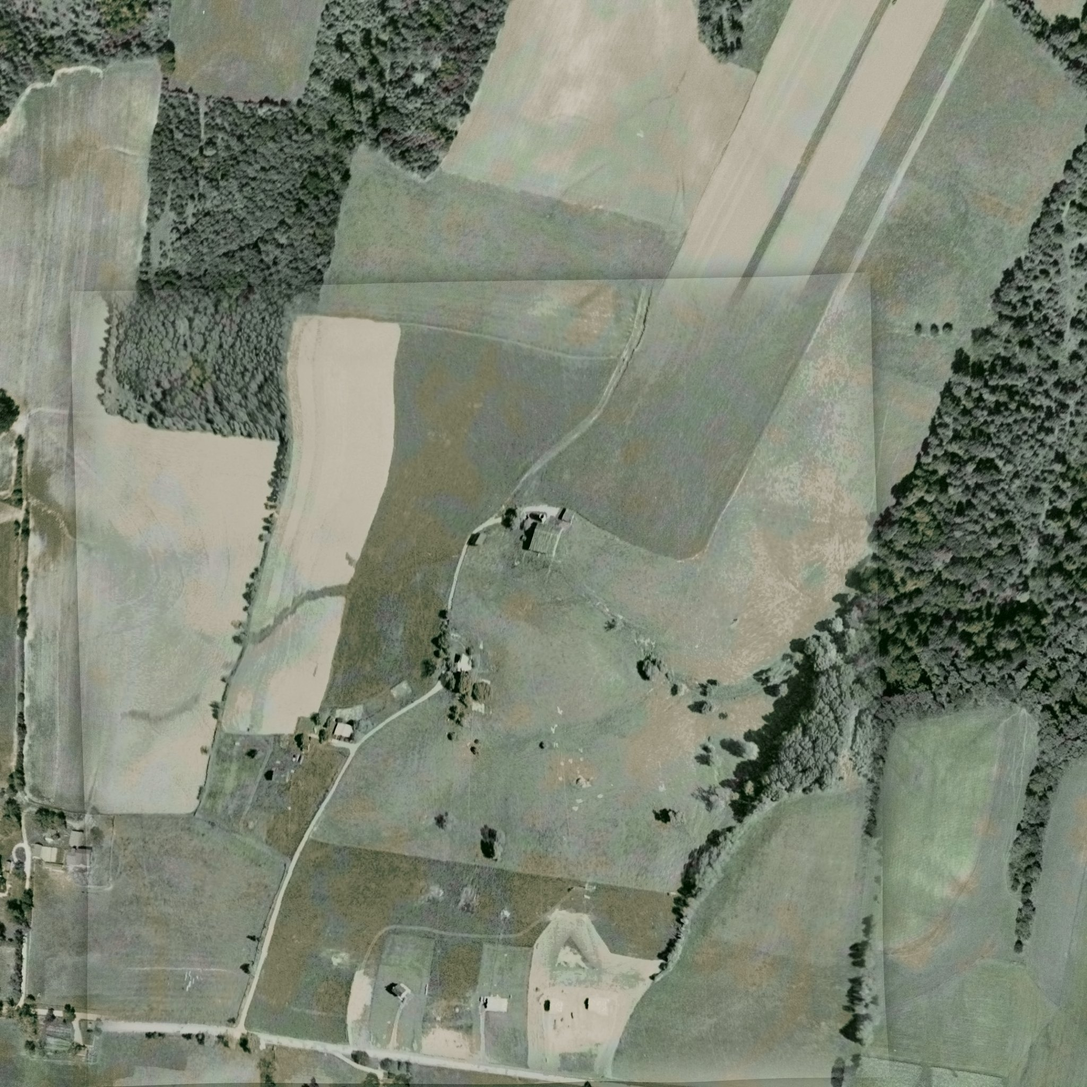
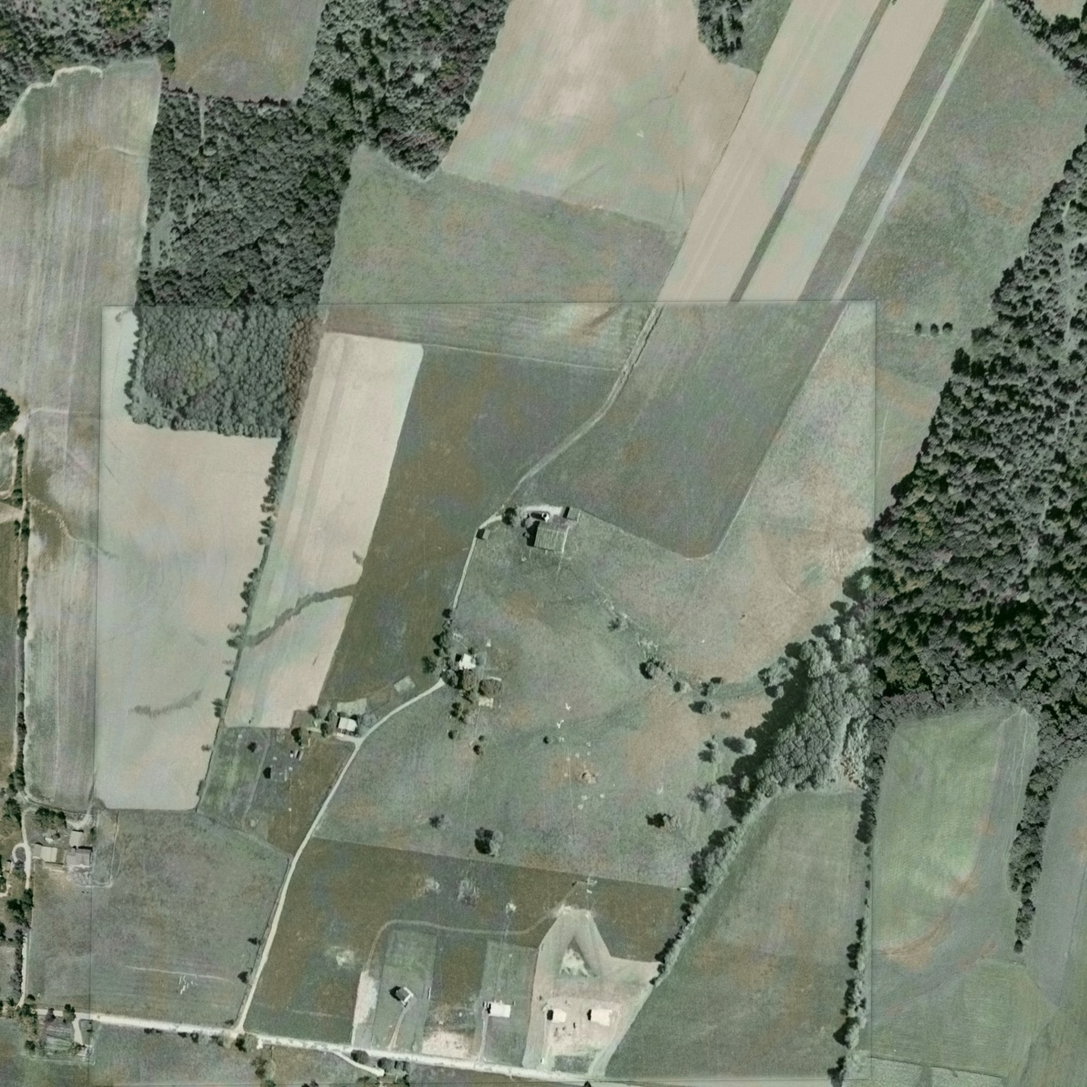
Compass, farm boundary, timeline event tooltips, clouds with shadows, cars/workers/cows/birds; fix 1961/1964/1971 aerial blending, realigned and cleaned plat prints, bridged plat-line gaps, rebuilt 1964 aerial
Claude-Session: https://claude.ai/code/session_01FUUumdWvTHgTKytBtDz2Qs

diff --git a/index.html b/index.html
@@ -59,10 +59,10 @@ h1{margin:0;font:600 24px/1.15 var(--display);letter-spacing:.01em;color:#fff}
 .mcard .mx:hover{background:rgba(255,255,255,.1)}
 #blend{width:100%;display:block;margin:0;accent-color:var(--accent)}
 #dlab{position:absolute;top:0;transform:translateX(-50%);font-weight:600;font-size:12px;color:var(--fg);white-space:nowrap;pointer-events:none}
-#ticks{position:relative;height:22px;margin-top:1px}
+#ticks{position:relative;height:28px;margin-top:1px}
 #ticks i{position:absolute;top:0;width:1px;height:4px;background:var(--line);transform:translateX(-50%)}
 #ticks i.m{height:7px;background:var(--muted)}
-#ticks b{position:absolute;top:8px;font-weight:500;font-size:10px;color:var(--muted);transform:translateX(-50%)}
+#ticks b{position:absolute;top:13px;font-weight:500;font-size:10px;color:var(--muted);transform:translateX(-50%)}
 .btn{all:unset;cursor:pointer;padding:7px 14px;border:1px solid var(--line);border-radius:10px;font-weight:500}
 .btn:hover{border-color:var(--accent)}
 .btn[hidden]{display:none}
@@ -73,7 +73,13 @@ h1{margin:0;font:600 24px/1.15 var(--display);letter-spacing:.01em;color:#fff}
 #labels div small{display:none;font-weight:500;font-size:10px;opacity:.85}
 #labels div.near small{display:block}
 #tabs{align-self:flex-start}
-body.own #foot,body.own #labels,body.own #rside,body.own #head .sub{display:none!important}
+body.own #foot,body.own #labels,body.own #rside,body.own #head .sub,body.own #compass,body.own #tip{display:none!important}
+#ticks .tle{all:unset;box-sizing:border-box;position:absolute;top:0;width:9px;height:9px;margin-left:-4.5px;transform:rotate(45deg);background:var(--accent);border:1px solid #14181c;border-radius:2px;cursor:pointer;z-index:1}
+#ticks .tle::after{content:"";position:absolute;inset:-9px}
+#ticks .tle:hover,#ticks .tle:focus-visible{background:#fff;outline:2px solid var(--accent);outline-offset:2px}
+#tip{position:fixed;z-index:7;max-width:330px;box-sizing:border-box;background:rgba(14,18,22,.97);border:1px solid var(--accent);border-radius:12px;padding:10px 13px;font-size:13px;line-height:1.4;color:var(--fg);box-shadow:0 4px 22px rgba(0,0,0,.5);pointer-events:none;display:none}
+#tip b{display:block;font-size:14px;color:#fff}#tip small{display:block;color:var(--accent);font-weight:600;margin:1px 0 5px}
+#compass{left:max(16px,env(safe-area-inset-left,0px));bottom:150px;width:84px;height:84px;pointer-events:none;filter:drop-shadow(0 2px 8px rgba(0,0,0,.55))}
 #own{position:fixed;left:0;right:0;bottom:0;top:var(--ownTop,110px);z-index:3;padding:0 max(14px,env(safe-area-inset-right,0px)) 14px max(14px,env(safe-area-inset-left,0px));pointer-events:none;box-sizing:border-box}
 #own[hidden]{display:none}
 #own .opanel{pointer-events:auto;height:100%;max-width:1320px;margin:0 auto;background:rgba(16,20,24,.92);border:1px solid var(--line);border-radius:16px;box-shadow:0 8px 40px rgba(0,0,0,.45);backdrop-filter:blur(2px);-webkit-backdrop-filter:blur(2px);overflow:hidden}
@@ -133,6 +139,8 @@ body.own #foot,body.own #labels,body.own #rside,body.own #head .sub{display:none
 
 <canvas id="stage" aria-label="3D tabletop model of the farm"></canvas>
 <div id="labels" aria-hidden="true"></div>
+<div id="compass" class="ui" aria-label="Compass: north arrow"><svg viewBox="-50 -50 100 100" width="84" height="84"><circle r="46" fill="rgba(14,18,22,.72)" stroke="rgba(231,222,200,.45)" stroke-width="1.5"/><g id="rose"><g stroke="rgba(231,222,200,.55)" stroke-width="1.2"><path d="M0-46V-40M0 46V40M-46 0H-40M46 0H40"/></g><path d="M0-36L8 0H-8Z" fill="#e5503f"/><path d="M0 36L8 0H-8Z" fill="#d8d2c2"/><circle r="2.6" fill="#14181c" stroke="#f4efe2" stroke-width="1"/><text y="-26.5" x="0" text-anchor="middle" font-family="IBM Plex Sans,system-ui,sans-serif" font-size="12" font-weight="700" fill="#fff" stroke="#14181c" stroke-width=".8" paint-order="stroke">N</text><text y="34.5" x="0" text-anchor="middle" font-family="IBM Plex Sans,system-ui,sans-serif" font-size="8.5" font-weight="600" fill="#cdc6b4">S</text><text x="-31" y="3" text-anchor="middle" font-family="IBM Plex Sans,system-ui,sans-serif" font-size="8.5" font-weight="600" fill="#cdc6b4">W</text><text x="31" y="3" text-anchor="middle" font-family="IBM Plex Sans,system-ui,sans-serif" font-size="8.5" font-weight="600" fill="#cdc6b4">E</text></g></svg></div>
+<div id="tip" role="tooltip"></div>
 <div id="head" class="ui">
   <div><h1>Roundknoll Farm<span id="mode">Tabletop</span></h1><p class="sub">Baldwin, Maryland · 1957 landscape, the subdivision plats, and today</p></div>
   <div class="hbtns"><div class="seg" id="tabs" role="tablist" aria-label="View"><button id="tab3d" role="tab" aria-pressed="true">Tabletop</button><button id="tabown" role="tab" aria-pressed="false">Owner history</button></div><button id="babout" class="btn">About the farm</button><button id="bhelp" aria-label="Controls and notes" title="Controls and notes">?</button></div>
@@ -146,6 +154,7 @@ body.own #foot,body.own #labels,body.own #rside,body.own #head .sub{display:none
     <label title="The recorded plat sheets, warped to fit the map (Sections 1 to 3 together)"><input id="cpr" type="checkbox"> Original plat prints</label>
     <label title="Available at the final (1990) stop"><input id="callp" type="checkbox" disabled> All plats over today</label>
     <label><input id="clots" type="checkbox"> 1881 farm lots</label>
+    <label title="Outline of the whole farm (the two 1881 lots together), fitted to the 1957 aerial"><input id="cbnd" type="checkbox" checked> Farm boundary</label>
     <div class="grp">Ground</div>
     <label title="Baltimore County lidar hillshade: trees and roofs included"><input id="clid" type="checkbox"> Raw lidar</label>
     <label title="5 ft contours, 25 ft index lines: today's ground, and the 1957 ground before regrading"><input id="ctopo" type="checkbox"> Topographic contours</label>
@@ -154,7 +163,8 @@ body.own #foot,body.own #labels,body.own #rside,body.own #head .sub{display:none
     <label><input id="ctrees" type="checkbox" checked> Trees</label>
     <label><input id="cbld" type="checkbox" checked> Buildings</label>
     <label><input id="cdate" type="checkbox" checked> House dates</label>
-    <label title="Thin drifting cloud wisps above the table"><input id="cclouds" type="checkbox" checked> Clouds</label>
+    <label title="Thin drifting cloud wisps above the table, with soft shadows on the ground"><input id="cclouds" type="checkbox" checked> Clouds</label>
+    <label title="Cars on the roads, workers at houses going up, cows in the 1950s pasture, birds overhead (all exaggerated in size)"><input id="canim" type="checkbox" checked> Life: cars, workers, cows, birds</label>
     <div class="grp">Height</div>
     <label>Scale <input id="vex" type="range" min="1" max="3" step="0.1" value="1.5" style="width:110px;accent-color:var(--accent)"> <output id="vexo" style="min-width:3.2em;color:var(--fg)">1.5×</output></label>
   </div>
@@ -185,14 +195,14 @@ body.own #foot,body.own #labels,body.own #rside,body.own #head .sub{display:none
 </div>
 <div id="help" class="modal" hidden role="dialog" aria-modal="true" aria-label="Controls and notes"><div class="mcard"><button class="mx" data-close aria-label="Close">×</button>
   <h2>Controls</h2>
-  <ul><li><b>Orbit</b>: drag</li><li><b>Zoom</b>: scroll or pinch</li><li><b>Pan</b>: right-drag, or two fingers</li><li><b>Timeline</b>: drag the slider, or tap a year under it</li><li><b>Layers</b>: the window at the top right. Its Scale slider stretches the model vertically (1× is true scale).</li><li><b>Tabletop / Owner history</b>: the switch at the top right of the title box</li></ul>
+  <ul><li><b>Orbit</b>: drag</li><li><b>Zoom</b>: scroll or pinch</li><li><b>Pan</b>: right-drag, or two fingers</li><li><b>Timeline</b>: drag the slider, or tap a year under it</li><li><b>Layers</b>: the window at the top right. Its Scale slider stretches the model vertically (1× is true scale).</li><li><b>Tabletop / Owner history</b>: the switch at the top right of the title box</li><li><b>Timeline events</b>: hover (or tap) a gold diamond under the slider to see what happened then; click it to jump there</li><li><b>Compass</b>: bottom left, always points to true north as you orbit</li></ul>
   <h3>In the headset</h3>
   <ul><li><b>Trigger</b>: step to the next year</li><li><b>Grip</b>: toggle true scale</li><li><b>Thumbstick</b>: spin the table</li></ul>
   <p id="xrmsg" style="color:#f2cdbd"></p>
   <h3>How the model is built</h3>
   <p>The timeline steps through the recorded subdivision plats, drawn over the 1957 landscape. From 1961 on, today’s houses appear in the year the county records say they were built (Maryland SDAT year built, matched by street address; a few outbuildings take their house’s year). The Section 1 and Section 2 plat lines share one colour.</p>
   <p>The ground photo fades from the 1957 aerial to the 1964 and then the 1971 aerials (each covers the middle of the map; the edges keep the older photo). The terrain changes patch by patch: each lot switches from the 1957 surface to today’s lidar in the year before its house was built, and the roads are cut in the year after their plat was approved (1962, 1966, 1968, 1973), ahead of the houses. The 2023 aerial replaces the older photos on the regraded patches after 1972, starting in black and white to match the older prints.</p>
-  <p><b>Layers.</b> “Colourise photos” gives the old photos an estimated colour borrowed from today’s aerial (interpretive, not original). “All plats over today” draws every plat at once over the current ground. “Original plat prints” drapes the recorded plat sheets (Sections 1 to 3 together) over the ground, warped to fit the map. “Raw lidar” is a hillshade of the Baltimore County lidar surface, trees and roofs included. “Topographic contours” are drawn from the same lidar every 5 ft (heavier every 25 ft), and show the 1957 ground’s contours before it was regraded.</p>
+  <p><b>Layers.</b> “Colourise photos” gives the old photos an estimated colour borrowed from today’s aerial (interpretive, not original). “All plats over today” draws every plat at once over the current ground. “Original plat prints” drapes the recorded plat sheets (Sections 1 to 3 together) over the ground, warped to fit the map. “Farm boundary” outlines the whole farm (the two 1881 lots together, as fitted to the 1957 aerial). “Life” adds small moving cars, workers, cows and birds; they are drawn several times life size so you can see them, and they are for atmosphere, not a record of what was there. “Raw lidar” is a hillshade of the Baltimore County lidar surface, trees and roofs included. “Topographic contours” are drawn from the same lidar every 5 ft (heavier every 25 ft), and show the 1957 ground’s contours before it was regraded.</p>
   <p><b>Quality settings</b> (top right, under Layers). “Larger textures” and “AI-enhanced aerials” load 4096 px copies of the four aerials; the AI version is upscaled with Real-ESRGAN and adds plausible detail that is not in the original photos. “Sharpen aerials” applies an unsharp mask. “Finer terrain mesh” uses an 800 × 800 ground grid built from the 1 m lidar. “Lidar-placed trees” puts a tree at each crown found in the lidar canopy model (about 6,800), coloured from the 2023 aerial; “Detailed tree shapes” swaps the simple blobs and cones for lobed crowns and layered conifers. The last three are heavier, so turn them off if the headset or your computer struggles.</p>
   <p>Terrain is lidar from 2014 with later regrading removed for 1957. Trees and farm buildings in 1957 are drafted from the aerial photo and are approximate.</p>
 </div></div>
@@ -304,6 +314,8 @@ try {
   const tR = await loadTex('rdq.png'); tR.colorSpace = THREE.NoColorSpace; tR.generateMipmaps = false; tR.minFilter = THREE.LinearFilter; tR.magFilter = THREE.LinearFilter;
   const tL = await loadTex('lotm.png'); tL.colorSpace = THREE.NoColorSpace; tL.generateMipmaps = false; tL.minFilter = THREE.LinearFilter; tL.magFilter = THREE.LinearFilter;
   const tLt = await loadTex('lots.png'); tLt.colorSpace = THREE.NoColorSpace; tLt.generateMipmaps = false; tLt.minFilter = THREE.LinearFilter; tLt.magFilter = THREE.LinearFilter;
+  const tBnd = await loadTex('bound.png'); tBnd.colorSpace = THREE.NoColorSpace; tBnd.generateMipmaps = false; tBnd.minFilter = THREE.LinearFilter; tBnd.magFilter = THREE.LinearFilter;
+  const uBnd = { value: 1 };
   const uLots = { value: 0 }, uLid = { value: 0 }, uTopo = { value: 0 }, uSharp = { value: 0 }, uPr = { value: new THREE.Vector4(0, 0, 0, 0) };
   const [tLid, tTopo, tPrA] = await Promise.all([loadTex('lidar.jpg'), loadTex('topo.png'), loadTex('prints.png')]);
   for (const tx of [tTopo, tPrA]) tx.colorSpace = THREE.NoColorSpace;
@@ -339,25 +351,28 @@ try {
   sky.renderOrder = -10; scene.add(sky);
   // thin drifting cloud wisps floating just above the table: two layers at different heights and speeds, so they slide past each other as you orbit
   const uCl = { value: 0 };
-  const cloudFrag = `uniform float uTime; uniform float uSeed; uniform float uScale; uniform vec2 uWind; uniform float uAlpha; varying vec2 vUv;
-    float hash(vec2 p){ return fract(sin(dot(p, vec2(127.1, 311.7))) * 43758.5453); }
-    float vn(vec2 p){ vec2 i = floor(p), f = fract(p); f = f*f*(3.0-2.0*f);
-      return mix(mix(hash(i), hash(i+vec2(1,0)), f.x), mix(hash(i+vec2(0,1)), hash(i+vec2(1,1)), f.x), f.y); }
-    float fbm(vec2 p){ float a = 0.5, s = 0.0; for(int i = 0; i < 4; i++){ s += a * vn(p); p = p * 2.03 + 11.7; a *= 0.5; } return s; }
-    void main(){
-      vec2 p = (vUv + uSeed) * vec2(2.4, 5.5) * uScale + uWind * uTime;                    // stretched along the wind so they read as wisps
-      vec2 q = vec2(fbm(p + vec2(0.0, uTime * 0.012)), fbm(p + vec2(5.2, 1.3) - uTime * 0.01));
-      float n = fbm(p + 1.9 * q);
-      float c = smoothstep(0.50, 0.92, n) * smoothstep(0.28, 0.75, fbm(p * 0.45 + q));      // thin, broken-up streaks
-      float edge = 1.0 - smoothstep(0.30, 0.50, length(vUv - 0.5));
-      gl_FragColor = vec4(0.97, 0.97, 1.0, c * edge * uAlpha);
+  // one cloud-density function shared by the cloud sheets and by the ground shader (so each cloud throws a soft shadow)
+  const CLOUD_FN = `
+    float chash(vec2 p){ return fract(sin(dot(p, vec2(127.1, 311.7))) * 43758.5453); }
+    float cvn(vec2 p){ vec2 i = floor(p), f = fract(p); f = f*f*(3.0-2.0*f);
+      return mix(mix(chash(i), chash(i+vec2(1,0)), f.x), mix(chash(i+vec2(0,1)), chash(i+vec2(1,1)), f.x), f.y); }
+    float cfbm(vec2 p){ float a = 0.5, s = 0.0; for(int i = 0; i < 4; i++){ s += a * cvn(p); p = p * 2.03 + 11.7; a *= 0.5; } return s; }
+    float cloudD(vec2 uv, float t, float seed, float scl, vec2 wnd){
+      vec2 p = (uv + seed) * vec2(2.2, 4.2) * scl + wnd * t;
+      vec2 q = vec2(cfbm(p + vec2(0.0, t * 0.012)), cfbm(p + vec2(5.2, 1.3) - t * 0.01));
+      float n = cfbm(p + 1.9 * q);
+      float c = smoothstep(0.40, 0.74, n) * smoothstep(0.18, 0.62, cfbm(p * 0.45 + q));
+      return c * (1.0 - smoothstep(0.30, 0.50, length(uv - 0.5)));
     }`;
-  const clouds = [{ y: 0.13, size: 1.7, seed: 0.0, scale: 1.0, wind: [0.010, 0.004], alpha: 0.5 }, { y: 0.2, size: 1.9, seed: 3.7, scale: 0.8, wind: [0.016, -0.003], alpha: 0.38 }].map(c => {
+  const CLOUDS = [{ y: 0.10, size: 1.6, seed: 0.0, scale: 1.0, wind: [0.016, 0.006], alpha: 0.78 }, { y: 0.17, size: 1.8, seed: 3.7, scale: 0.8, wind: [0.024, -0.005], alpha: 0.62 }, { y: 0.26, size: 2.0, seed: 8.1, scale: 0.65, wind: [0.011, 0.009], alpha: 0.5 }];
+  const cloudFrag = `uniform float uTime; uniform float uSeed; uniform float uScale; uniform vec2 uWind; uniform float uAlpha; varying vec2 vUv;` + CLOUD_FN + `
+    void main(){ float d = cloudD(vUv, uTime, uSeed, uScale, uWind); gl_FragColor = vec4(1.0, 1.0, 1.0, min(d * 1.15, 1.0) * uAlpha); }`;
+  const clouds = CLOUDS.map(c => {
     const m = new THREE.Mesh(new THREE.PlaneGeometry(c.size, c.size).rotateX(-Math.PI / 2), new THREE.ShaderMaterial({ transparent: true, depthWrite: false, fog: false, side: THREE.DoubleSide,
       uniforms: { uTime: uCl, uSeed: { value: c.seed }, uScale: { value: c.scale }, uWind: { value: new THREE.Vector2(c.wind[0], c.wind[1]) }, uAlpha: { value: c.alpha } },
       vertexShader: 'varying vec2 vUv; void main(){ vUv = uv; gl_Position = projectionMatrix * modelViewMatrix * vec4(position, 1.0); }', fragmentShader: cloudFrag }));
     m.position.y = c.y; m.renderOrder = 5; m.frustumCulled = false; rig.add(m); return m; });
-  const cloudsCb = $('cclouds');
+  const cloudsCb = $('cclouds'), uClS = { value: 1 };
   const vert = `
     uniform float uT; uniform float uBot; uniform float uEx; uniform float uYr; uniform float uA; uniform float uB; attribute float h0; attribute float h1; attribute float top; attribute float gy; attribute float rd; attribute float rq; attribute vec3 n0; attribute vec3 n1;
     varying vec2 vUv; varying vec3 vN; varying float vWc;
@@ -369,12 +384,13 @@ try {
       float h = top > 0.5 ? mix(h0, h1, w) : -uBot;
       gl_Position = projectionMatrix * modelViewMatrix * vec4(position.x, h, position.z, 1.0); }`;
   const frag = `
-    uniform float uT; uniform sampler2D t57; uniform sampler2D t64; uniform sampler2D t71; uniform float uA; uniform float uB; uniform sampler2D t23; uniform sampler2D tPA; uniform sampler2D tPB; uniform vec4 uPl; uniform vec3 uL; uniform float uSkirt; uniform sampler2D tG; uniform sampler2D tR; uniform sampler2D tL; uniform sampler2D tLt; uniform float uLots; uniform float uYr; uniform float uCol; uniform float uSat; uniform float uOne; uniform sampler2D tLid; uniform sampler2D tTopo; uniform sampler2D tPrA; uniform float uLid; uniform float uTopo; uniform vec4 uPr; uniform float uSharp;
+    uniform float uT; uniform sampler2D t57; uniform sampler2D t64; uniform sampler2D t71; uniform float uA; uniform float uB; uniform sampler2D t23; uniform sampler2D tPA; uniform sampler2D tPB; uniform vec4 uPl; uniform vec3 uL; uniform float uSkirt; uniform sampler2D tG; uniform sampler2D tR; uniform sampler2D tL; uniform sampler2D tLt; uniform float uLots; uniform float uYr; uniform float uCol; uniform float uSat; uniform float uOne; uniform sampler2D tLid; uniform sampler2D tTopo; uniform sampler2D tPrA; uniform float uLid; uniform float uTopo; uniform vec4 uPr; uniform float uSharp; uniform sampler2D tBnd; uniform float uBnd; uniform float uClT; uniform float uClS;
     varying vec2 vUv; varying vec3 vN; varying float vWc;
+    ${CLOUD_FN}
     vec3 sheet(vec3 col, float v, float a){ float cov = smoothstep(0.0, 0.006, v), ink = clamp((v - 0.0039) / 0.996, 0.0, 1.0); return mix(col, mix(vec3(0.75, 0.70, 0.55), vec3(0.02, 0.018, 0.015), ink), cov * a * 0.86); }
     void main(){ float nd = max(dot(normalize(vN), uL), 0.0); float lit = 0.42 + 0.68 * nd;
       vec4 rr = texture2D(tR, vUv); float rt = rr.r * smoothstep(1965.30 + rr.g * 0.45, 1965.50 + rr.g * 0.45, uYr);
-      vec4 lm = texture2D(tL, vUv); rt = max(rt, lm.g * smoothstep(lm.r * 80.0 + 1949.0, lm.r * 80.0 + 1950.0, uYr));   // each house's lot (driveway, yard) shows the 1971 photo in the year its house goes up   // the 1971 road surface alone, laid in from Sweet Air Road
+      vec4 lm = texture2D(tL, vUv); float ly = lm.r * 80.0 + 1949.0; rt = max(rt, lm.g * step(1964.8, ly) * smoothstep(ly, ly + 1.0, uYr));   // each house's lot (driveway, yard) shows the 1971 photo in the year its house goes up   // the 1971 road surface alone, laid in from Sweet Air Road
       vec3 a = mix(mix(texture2D(t57, vUv).rgb, texture2D(t64, vUv).rgb, uA), texture2D(t71, vUv).rgb, max(uB, rt)) * vec3(1.04, 1.0, 0.9);
       vec3 b = texture2D(t23, vUv).rgb * 1.12;
       if (uSharp > 0.0) {   // unsharp mask against a blurred (mip-biased) copy of the same photo
@@ -402,14 +418,21 @@ try {
         col = mix(col, vec3(0.20, 0.55, 0.85), m2 * 0.95);
         col = mix(col, vec3(0.95, 0.28, 0.20), m3 * 0.95);
         col = mix(col, vec3(0.90, 0.55, 0.10), m4 * 0.95);
-        if (uLots > 0.5) { vec2 lt = texture2D(tLt, vUv).rg; col = mix(col, vec3(0.23, 0.55, 1.0), lt.g * 0.0 + lt.r * 0.85); col = mix(col, vec3(1.0, 0.60, 0.18), lt.g * 0.85); }
+        if (uLots > 0.5) { vec2 lt = texture2D(tLt, vUv).rg; float dvd = min(lt.r, lt.g); lt = mix(lt, vec2(0.28), smoothstep(0.1, 0.5, dvd) * smoothstep(1966.6, 1967.4, uYr)); col = mix(col, vec3(0.23, 0.55, 1.0), lt.g * 0.0 + lt.r * 0.85); col = mix(col, vec3(1.0, 0.60, 0.18), lt.g * 0.85); }
+        col = mix(col, vec3(1.0, 0.93, 0.35), texture2D(tBnd, vUv).r * uBnd * 0.95);   // whole-farm outline
         if (uOne > 0.5) col = mix(base0, vec3(1.0, 0.85, 0.1), max(max(m1, m2), max(m3, m4)) * 0.95);   // composite plat: one colour
+      }
+      if (uClS > 0.0 && uSkirt < 0.5) {   // soft shadows of the drifting clouds (same noise as the cloud sheets, shifted along the sun direction)
+        vec2 wp = vec2(vUv.x - 0.5, 0.5 - vUv.y) * 0.8; vec2 sd = uL.xz / max(uL.y, 0.2);
+        vec2 u1 = (wp + sd * 0.10) / 1.6 + 0.5, u2 = (wp + sd * 0.17) / 1.8 + 0.5; u1.y = 1.0 - u1.y + 0.0; u2.y = 1.0 - u2.y + 0.0;
+        float sh = clamp(cloudD(u1, uClT, 0.0, 1.0, vec2(0.016, 0.006)) * 0.78 + cloudD(u2, uClT, 3.7, 0.8, vec2(0.024, -0.005)) * 0.62, 0.0, 1.0);
+        col *= 1.0 - 0.30 * sh * uClS;
       }
       gl_FragColor = vec4(col, 1.0);
       #include <colorspace_fragment>
     }`;
   const mkMat = skirt => new THREE.ShaderMaterial({ vertexShader: vert, fragmentShader: frag, side: THREE.DoubleSide,
-    uniforms: { uT, uYr, uEx, uPl, uBot: { value: BOT * VEX }, t57: { value: t57 }, t64: { value: t64 }, t71: { value: t71 }, uA, uB, t23: { value: t23 }, tPA: { value: tPA }, tPB: { value: tPB }, tG: { value: tG }, tR: { value: tR }, tL: { value: tL }, tLt: { value: tLt }, uLots, uCol, uSat, uOne, tLid: { value: tLid }, tTopo: { value: tTopo }, tPrA: { value: tPrA }, uLid, uTopo, uPr, uSharp, uL: { value: LIGHT }, uSkirt: { value: skirt ? 1 : 0 } } });
+    uniforms: { uClT: uCl, uClS, tBnd: { value: tBnd }, uBnd, uT, uYr, uEx, uPl, uBot: { value: BOT * VEX }, t57: { value: t57 }, t64: { value: t64 }, t71: { value: t71 }, uA, uB, t23: { value: t23 }, tPA: { value: tPA }, tPB: { value: tPB }, tG: { value: tG }, tR: { value: tR }, tL: { value: tL }, tLt: { value: tLt }, uLots, uCol, uSat, uOne, tLid: { value: tLid }, tTopo: { value: tTopo }, tPrA: { value: tPrA }, uLid, uTopo, uPr, uSharp, uL: { value: LIGHT }, uSkirt: { value: skirt ? 1 : 0 } } });
 
   const matT = mkMat(false), matS = mkMat(true), mats = [matT, matS];
   let terrain = null, skirtMesh = null;
@@ -579,7 +602,7 @@ float nn = n3(vOP * 7.0) * 0.6 + n3(vOP * 17.0) * 0.4; diffuseColor.rgb *= 0.55 
   const LINE_CSS = ['#e68c1a', '#3390d9', '#f24733', '#b27af2'], LINE_NAME = ['1965 plat (Section 1, revised)', '1961 plat (Sweet Air Road lots)', '1972 plat (Section 3)', 'Section 2 portion, laid out with Section 1 (platted 1967, as drawn on the 1972 sheet)'], LINE_GROUP = 'Sections 1 and 2 (1965; Section 2 laid out 1967)';
   let s = 0, target = 0, shownS = -1, t = 0;
   const ss = x => x * x * (3 - 2 * x), clamp01 = x => Math.min(Math.max(x, 0), 1);
-  const showTrees = $('ctrees'), showBld = $('cbld'), showPlat = $('cplat'), allPlat = $('callp'), colOn = $('ccol'), lotsCb = $('clots'), lidCb = $('clid'), topoCb = $('ctopo'), prCb = $('cpr');
+  const showTrees = $('ctrees'), showBld = $('cbld'), showPlat = $('cplat'), allPlat = $('callp'), colOn = $('ccol'), lotsCb = $('clots'), bndCb = $('cbnd'), lidCb = $('clid'), topoCb = $('ctopo'), prCb = $('cpr');
   const stopsEl = $('stops'), legend = $('legend');
   STOPS.forEach((st, i) => { const b = document.createElement('button'); b.textContent = st.l; b.onclick = () => setStop(i); stopsEl.appendChild(b); st.el = b; });
   const nearest = () => STOPS.reduce((bi, st, i) => Math.abs(st.s - s) < Math.abs(STOPS[bi].s - s) ? i : bi, 0);
@@ -591,20 +614,43 @@ float nn = n3(vOP * 7.0) * 0.6 + n3(vOP * 17.0) * 0.4; diffuseColor.rgb *= 0.55 
   { const tk = $('ticks'); for (let y = 1957; y <= 1990; y++) { const i = document.createElement('i'); const major = STOPS.some(st => st.l === String(y)); if (major) i.className = 'm'; i.style.left = posCss(sOfYear(y)); tk.appendChild(i);
       if (major) { const b = document.createElement('b'); b.textContent = y; b.style.left = posCss(sOfYear(y)); tk.appendChild(b); } }
     for (let mth = 0; mth < 12; mth++) { if (!mth) continue; const i = document.createElement('i'); i.style.left = posCss(sOfYear(1965 + mth / 12)); i.style.height = '2px'; tk.appendChild(i); } }
+  // what happened when (shown as gold diamonds under the slider; hover, focus or tap one)
+  const TLE = [
+    [1957.5, 'The Cook farm', 'The 1957 aerial shows a working farm of about 153 acres, owned by Charles and Dorothy Cook since 1946: fields, pasture and woods, the farmhouse and barns, and the old lane up from Sweet Air Road.'],
+    [1959.24, 'Farm sold', 'The Cooks sell the whole farm to J. Thomas Requard & Co., Inc., the developer of Sweet Air Manor (deed of 30 March 1959).'],
+    [1961, 'Sweet Air Road lots platted', 'The first plat (Plat Book W.J.R. 27) lays out small lots along Sweet Air Road. The first houses go up beside the road.'],
+    [1964, '1964 aerial photo', 'The 1964 photograph, taken before the subdivision roads were cut. A few new houses stand along Sweet Air Road.'],
+    [1965.05, 'Section 1 plat recorded', 'The revised plat of Section 1 is recorded on 18 January 1965 (Plat Book R.R.G. 30, folio 65): Sunburst Road, Old Farm Road and their lots.'],
+    [1965.5, 'Roads cut', 'Sunburst Road and Old Farm Road are graded in from Sweet Air Road over the summer of 1965.'],
+    [1967, 'Section 2 laid out', 'Section 2, the lots around Roundnoll Road and the old farmhouse, is platted (Plat Book O.T.G. 32). Powell’s Private Road, the old lane that divided the two 1881 lots, drops out of use; the 1968 deed calls it long abandoned.'],
+    [1968.72, 'Company dissolved', 'J. Thomas Requard & Co., Inc. files its Articles of Dissolution (19–20 September 1968). Requard, its only stockholder, takes the land that is left.'],
+    [1971, '1971 aerial photo', 'The 1971 photograph shows the new roads, Sunburst Road and Old Farm Road, with houses along them.'],
+    [1972, 'Section 3 platted', 'The plat of Section 3 (Plat Book O.T.G. 33–35) lays out the northern lots on Dairydale and Farmfield Courts.'],
+    [1975.49, 'Farmhouse lot sold', 'J. Thomas Requard sells Lot 3, Block C, Section 2, the old farmhouse lot (4305 Roundnoll Rd), to Ronald and Victoria Lessa (26 June 1975).'],
+    [1977.62, 'New owner', 'Jean D. Crockett buys the farmhouse lot (12 August 1977) and keeps it for 37 years.']
+  ];
+  const tip = $('tip'), ticksEl = $('ticks');
+  const hideTip = () => { tip.style.display = 'none'; };
+  TLE.forEach(([ty, tt, tb]) => { const b = document.createElement('button'); b.className = 'tle'; b.style.left = posCss(sOfYear(ty)); b.setAttribute('aria-label', fmtDate(ty) + ': ' + tt);
+    const show = () => { tip.innerHTML = '<b>' + tt + '</b><small>' + fmtDate(ty) + '</small>' + tb; tip.style.display = 'block'; const r = b.getBoundingClientRect(), tw = tip.offsetWidth, th = tip.offsetHeight;
+      tip.style.left = Math.max(8, Math.min(innerWidth - tw - 8, r.left + r.width / 2 - tw / 2)) + 'px'; tip.style.top = Math.max(8, r.top - th - 12) + 'px'; };
+    b.onmouseenter = show; b.onfocus = show; b.onmouseleave = hideTip; b.onblur = hideTip;
+    b.onclick = () => { show(); s = target = sOfYear(ty + 0.01); $('blend').value = s; }; ticksEl.appendChild(b); });
+  const eventNow = yr => { let e = null; for (const x of TLE) if (yr >= x[0] && yr < x[0] + 0.45) e = x; return e; };
   const refresh = () => {
     t = ss(clamp01((s - 0.8) / 0.2));
-    uT.value = t; uA.value = ss(clamp01((s - 0.09) / 0.06)); uB.value = ss(clamp01((yearAt(s) - 1969.5) / 2.5));
+    uT.value = t; uA.value = ss(clamp01((s - 0.09) / 0.06)); uB.value = ss(clamp01((yearAt(s) - 1968.5) / 2.5));   // the 1971 photo is fully in by 1971
     const fade = 1 - ss(clamp01((s - 0.8) / 0.2)), on = showPlat.checked ? fade : 0;
-    const a = [0, 0, 0, 0]; for (const st of STOPS) if (st.k !== undefined) a[st.k] = ss(clamp01((s - (st.s - 0.07)) / 0.07)) * on;
+    const a = [0, 0, 0, 0]; for (const st of STOPS) if (st.k !== undefined) a[st.k] = ss(clamp01((s - (st.s - 0.05)) / 0.05)) * on;
     const isToday = s > 0.97; allPlat.disabled = !isToday; allPlat.parentElement.style.opacity = isToday ? 1 : 0.4;
     const one = isToday && allPlat.checked; uOne.value = one ? 1 : 0; if (one) a.fill(1);   // composite of every plat in a single colour, today only
     uCol.value = colOn.checked ? 1 : 0; uLots.value = lotsCb.checked ? 1 : 0; uSat.value = ss(clamp01((yearAt(s) - 1975) / 14));
     uPl.value.set(a[0], a[1], a[2], a[3]);
     const onP = prCb.checked ? fade : 0, ap = [onP, 0, 0, 0];
-    uPr.value.set(onP, 0, 0, 0); uLid.value = lidCb.checked ? 1 : 0; uTopo.value = topoCb.checked ? 1 : 0;
+    uPr.value.set(onP, 0, 0, 0); uLid.value = lidCb.checked ? 1 : 0; uBnd.value = bndCb.checked ? 1 : 0; uClS.value = cloudsCb.checked ? 1 : 0; uTopo.value = topoCb.checked ? 1 : 0;
     const f23 = ss(clamp01((t - 0.25) / 0.6)), f57 = ss(clamp01((0.75 - t) / 0.6));
     const yr = yearAt(s); uYr.value = yr; $('dlab').textContent = fmtDate(yr); $('dlab').style.left = posCss(s); placeTrees(tr57, f57, t, yr); placeTrees(tr23, f23, t, yr); placeBlds(bl57, f57, t, yr); placeBlds(bl23, f23, t, yr);
-    $('yrnote').textContent = true ? fmtDate(yr) + ' · ' + yrTimes.filter(y => y <= yr).length + ' of ' + yrTimes.length + ' homes with a county year-built are standing · ground: ' + (s > 0.97 ? 'today’s aerial photo' : (uB.value > 0.5 ? '1971' : uA.value > 0.5 ? '1964' : '1957') + ' aerial photo') : '';
+    const evn = eventNow(yr); $('yrnote').textContent = true ? fmtDate(yr) + (evn ? ' · ' + evn[1] : '') + ' · ' + yrTimes.filter(y => y <= yr).length + ' of ' + yrTimes.length + ' homes with a county year-built are standing · ground: ' + (s > 0.97 ? 'today’s aerial photo' : (uB.value > 0.5 ? '1971' : uA.value > 0.5 ? '1964' : '1957') + ' aerial photo') : '';
     for (const T of [tr57, tr23]) for (const m of [T.mB, T.mC, T.mT]) m.visible &&= showTrees.checked;
     for (const b of [...bl57, ...bl23]) b.mesh.visible &&= showBld.checked;
     const n = nearest();
@@ -873,6 +919,108 @@ return mount;})();
   const resize = () => { const w = innerWidth, h = innerHeight; if (!inXR) { renderer.setSize(w, h, false); camera.aspect = w / h; camera.updateProjectionMatrix(); } };
   addEventListener('resize', resize); resize();
   refresh(); statusBox.style.display = 'none';
+
+  // ---------- life: cars, workers, cows and birds (drawn several times life size so they show at tabletop scale) ----------
+  const animCb = $('canim');
+  const life = { cars: null, cows: null, workers: null, birds: [], flock: [] };
+  try {
+    const box = (w, h, d, x, y, z, c) => { const g = new THREE.BoxGeometry(w, h, d).translate(x, y, z); const n = g.attributes.position.count, col = new Float32Array(n * 3); for (let i = 0; i < n; i++) { col[i * 3] = c[0]; col[i * 3 + 1] = c[1]; col[i * 3 + 2] = c[2]; } g.setAttribute('color', new THREE.BufferAttribute(col, 3)); return g.toNonIndexed(); };
+    const mk = (geos, n) => { const m = new THREE.InstancedMesh(mergeGeometries(geos.map(g => g.index ? g.toNonIndexed() : g)), new THREE.MeshLambertMaterial({ vertexColors: true }), n); m.frustumCulled = false; m.instanceMatrix.setUsage(THREE.DynamicDrawUsage); m.count = 0; world.add(m);
+      m.setColorAt(0, new THREE.Color(1, 1, 1)); return m; };
+    const carG = [box(4.4, 0.8, 1.8, 0, 0.7, 0, [1, 1, 1]), box(2.3, 0.75, 1.6, -0.3, 1.45, 0, [0.22, 0.27, 0.32]), ...[[1.4, 0.9], [1.4, -0.9], [-1.4, 0.9], [-1.4, -0.9]].map(([x, z]) => box(0.8, 0.8, 0.35, x, 0.4, z, [0.07, 0.07, 0.07]))];
+    const cowG = [box(2.4, 1.1, 0.9, 0, 1.15, 0, [1, 1, 1]), box(0.75, 0.55, 0.5, 1.5, 1.35, 0, [1, 1, 1]), ...[[0.9, 0.3], [0.9, -0.3], [-0.9, 0.3], [-0.9, -0.3]].map(([x, z]) => box(0.2, 0.8, 0.2, x, 0.4, z, [0.35, 0.3, 0.28]))];
+    const wkG = [box(0.34, 0.85, 0.3, 0, 0.42, 0, [0.2, 0.26, 0.4]), box(0.55, 0.7, 0.36, 0, 1.2, 0, [1, 0.5, 0.08]), box(0.3, 0.3, 0.3, 0, 1.72, 0, [0.85, 0.65, 0.5]), box(0.36, 0.14, 0.36, 0, 1.95, 0, [1, 0.85, 0.1])];
+    life.cars = mk(carG, 12); life.cows = mk(cowG, 10); life.workers = mk(wkG, 18);
+    const CAR_S = 3.2, COW_S = 3.4, WK_S = 4.2;
+    const rnd = (a, b) => a + Math.random() * (b - a);
+    const gY = (px, py) => { const g = gyAt(px, py), w = wLocal(g, uYr.value, uT.value); return hAt(0, px, py) * (1 - w) + hAt(1, px, py) * w; };
+    const M4 = new THREE.Matrix4(), Q = new THREE.Quaternion(), V3 = new THREE.Vector3(), S3 = new THREE.Vector3(), YA = new THREE.Vector3(0, 1, 0), COL = new THREE.Color();
+    const put = (mesh, i, px, py, ang, sc, lift) => { V3.set(wx(px), gY(px, py) + lift, wz(py)); Q.setFromAxisAngle(YA, -ang); S3.setScalar(sc); M4.compose(V3, Q, S3); mesh.setMatrixAt(i, M4); };
+    // --- cows: a small herd grazing the big pasture south-east of the farmhouse until the farm is sold (1959) ---
+    const COWC = [940, 1240], COWR = [100, 88], cows = [];
+    const cowCols = [[0.08, 0.08, 0.08], [0.9, 0.9, 0.88], [0.4, 0.25, 0.14], [0.12, 0.1, 0.1], [0.85, 0.82, 0.78]];
+    for (let i = 0; i < 9; i++) { const a = rnd(0, 6.28), r = Math.sqrt(Math.random()); cows.push({ x: COWC[0] + Math.cos(a) * COWR[0] * r, y: COWC[1] + Math.sin(a) * COWR[1] * r, h: rnd(0, 6.28), sp: 0, wait: rnd(0, 6) }); life.cows.setColorAt(i, COL.setRGB(...cowCols[i % cowCols.length])); }
+    // --- cars: along the real road centrelines (OpenStreetMap), Sweet Air Road always, the subdivision roads once they are built ---
+    let routes = null; try { routes = await get('routes.json', 'json'); } catch (e) { console.warn('no routes', e); }
+    const prep = pts => { const c = []; for (const p of pts) { if (p[0] < -30 || p[0] > 1830 || p[1] < -30 || p[1] > 1830) { if (c.length > 1) break; if (c.length === 0) continue; } c.push(p); } const cum = [0]; for (let i = 1; i < c.length; i++) cum.push(cum[i - 1] + Math.hypot(c[i][0] - c[i - 1][0], c[i][1] - c[i - 1][1])); return { pts: c, cum, len: cum[cum.length - 1] }; };
+    const ROUTES = routes ? { sweet: prep(routes.sweet), sub: Object.entries(routes.sub).map(([k, r]) => ({ k, from: r.from, ...prep(r.pts) })) } : null;
+    const sampleRoute = (R, d) => { const c = R.cum; let i = 1; while (i < c.length - 1 && c[i] < d) i++; const f = (d - c[i - 1]) / Math.max(c[i] - c[i - 1], 1e-6), a = R.pts[i - 1], b = R.pts[i]; return [a[0] + (b[0] - a[0]) * f, a[1] + (b[1] - a[1]) * f, Math.atan2(b[1] - a[1], b[0] - a[0])]; };
+    const carCols = [[0.75, 0.1, 0.1], [0.1, 0.25, 0.55], [0.85, 0.82, 0.7], [0.15, 0.4, 0.25], [0.5, 0.5, 0.52], [0.9, 0.7, 0.15], [0.1, 0.1, 0.12]];
+    const cars = []; let carTimer = 2;
+    for (let i = 0; i < 12; i++) { cars.push({ on: false, R: null, d: 0, dir: 1, sp: 0, wait: 0, turn: false, ang: 0 }); life.cars.setColorAt(i, COL.setRGB(...carCols[i % carCols.length])); }
+    const houseCount = yr => { let n = 0; for (const y of yrTimes) if (y <= yr) n++; return n; };
+    const spawnCar = (c, yr) => {
+      const subs = ROUTES.sub.filter(r => yr >= r.from && r.len > 50), n = houseCount(yr);
+      const useSub = subs.length && yr > 1965.9 && Math.random() < Math.min(0.75, 0.25 + n / 120);
+      if (useSub) { c.R = subs[(Math.random() * subs.length) | 0]; c.dir = 1; c.sub = true; } else { c.R = ROUTES.sweet; c.dir = Math.random() < 0.5 ? 1 : -1; c.sub = false; }
+      c.d = c.dir > 0 ? 0 : c.R.len; c.sp = rnd(85, 130); c.wait = 0; c.turn = false; c.on = true; };
+    // --- workers: pacing around each house in the months before it is finished ---
+    const wk = []; for (let i = 0; i < 18; i++) { wk.push({ ph: rnd(0, 6.28), sp: rnd(0.5, 1.1), r: rnd(9, 17), dir: rnd(0, 3.14) }); }
+    // --- birds: a few circling hawks and an occasional skein of geese, flying in the air above the table ---
+    const birdMat = new THREE.MeshBasicMaterial({ color: 0x1a1c20, side: THREE.DoubleSide });
+    const wingGeo = new THREE.BufferGeometry(); wingGeo.setAttribute('position', new THREE.Float32BufferAttribute([0.15, 0, 0.05, -0.35, 0, 1.0, -0.6, 0, 0.05, 0.15, 0, 0.05, -0.6, 0, 0.05, -0.2, 0, -0.1], 3)); wingGeo.computeVertexNormals();
+    const bodyGeo = new THREE.BufferGeometry(); bodyGeo.setAttribute('position', new THREE.Float32BufferAttribute([0.55, 0, 0, -0.45, 0, 0.13, -0.45, 0, -0.13], 3));
+    const mkBird = sc => { const g = new THREE.Group(), wr = new THREE.Mesh(wingGeo, birdMat), wl = new THREE.Mesh(wingGeo, birdMat); wl.scale.z = -1; g.add(new THREE.Mesh(bodyGeo, birdMat), wr, wl); g.scale.setScalar(sc); g.visible = false; rig.add(g); return { g, wr, wl, ph: rnd(0, 6.28) }; };
+    const flap = (b, now, k) => { const a = Math.sin(now * k + b.ph) * 0.65; b.wr.rotation.x = a; b.wl.rotation.x = -a; };
+    for (let i = 0; i < 6; i++) { const b = mkBird(rnd(0.026, 0.036)); b.cx = rnd(-0.22, 0.22); b.cz = rnd(-0.22, 0.22); b.R = rnd(0.1, 0.3); b.y = rnd(0.12, 0.3); b.w = rnd(0.16, 0.3) * (Math.random() < 0.5 ? -1 : 1); b.a = rnd(0, 6.28); b.bob = rnd(0, 6.28); life.birds.push(b); }
+    for (let i = 0; i < 7; i++) life.flock.push(mkBird(0.03));
+    const flockState = { on: false, t: 0, next: 10, x0: 0, z0: 0, dx: 0, dz: 0, y: 0.34 };
+    let wasAnim = true;
+    life.update = (now, dt) => {
+      const on = animCb.checked, yr = uYr.value, tt = uT.value, T = now / 1000;
+      if (!on) { if (wasAnim) { life.cars.count = life.cows.count = life.workers.count = 0; for (const b of [...life.birds, ...life.flock]) b.g.visible = false; wasAnim = false; } return; }
+      wasAnim = true;
+      // cows
+      const cowVis = (1 - clamp01((yr - 1959.4) / 0.8)) * (tt < 0.02 ? 1 : 0);
+      life.cows.count = cowVis > 0.02 ? cows.length : 0;
+      if (life.cows.count) { cows.forEach((c, i) => { c.wait -= dt;
+          if (c.wait <= 0) { if (c.sp > 0) { c.sp = 0; c.wait = rnd(3, 9); } else { c.sp = rnd(2.5, 5); c.wait = rnd(2, 6); c.h += rnd(-1.2, 1.2); } }
+          const ex = (c.x - COWC[0]) / COWR[0], ey = (c.y - COWC[1]) / COWR[1]; if (ex * ex + ey * ey > 1) c.h = Math.atan2(COWC[1] - c.y, COWC[0] - c.x) + rnd(-0.4, 0.4);
+          c.x += Math.cos(c.h) * c.sp * dt / 0.55; c.y += Math.sin(c.h) * c.sp * dt / 0.55;
+          put(life.cows, i, c.x, c.y, c.h, COW_S * cowVis, 0.2); });
+        life.cows.instanceMatrix.needsUpdate = true; if (life.cows.instanceColor) life.cows.instanceColor.needsUpdate = true; }
+      // cars
+      if (ROUTES) {
+        const sub = yr > 1965.9 ? Math.min(5, 1 + Math.floor(houseCount(yr) / 14)) : 0, want = (yr < 1964 ? 1 : 2) + sub + (tt > 0.5 ? 1 : 0);
+        let act = 0; for (const c of cars) if (c.on) act++;
+        carTimer -= dt; if (carTimer <= 0 && act < want) { const c = cars.find(c => !c.on); if (c) spawnCar(c, yr); carTimer = rnd(1.5, 5); }
+        let n = 0;
+        cars.forEach((c, i) => { if (!c.on) return;
+          if (c.wait > 0) { c.wait -= dt; if (c.wait <= 0) { c.dir = -1; c.turn = true; } }
+          else { c.d += c.dir * c.sp * dt; if (c.dir > 0 && c.d >= c.R.len) { if (c.sub) { c.d = c.R.len; c.wait = rnd(3, 9); } else c.on = false; } else if (c.dir < 0 && c.d <= 0) c.on = false; }
+          if (!c.on) return;
+          const [px, py, a] = sampleRoute(c.R, Math.min(Math.max(c.d, 0), c.R.len)), edge = Math.min(px, py, 1799 - px, 1799 - py), sc = clamp01(edge / 40);
+          if (sc <= 0.01) return;
+          put(life.cars, n, px + Math.sin(a) * -3 * 0, py, a + (c.dir < 0 ? Math.PI : 0), CAR_S * sc, 0.25);
+          life.cars.setColorAt(n, COL.setRGB(...carCols[i % carCols.length])); n++; });
+        life.cars.count = n; life.cars.instanceMatrix.needsUpdate = true; if (life.cars.instanceColor) life.cars.instanceColor.needsUpdate = true;
+      }
+      // workers at houses going up
+      let nw = 0;
+      if (tt < 0.6) for (const B of bl23) { if (!B.y || nw >= wk.length - 2) continue; const k = yr - B.y; if (k < -0.7 || k > 0.1) continue;
+        const cx = B.lx, cz = B.lz, gy = B.mesh.position.y; const cnt = 3;
+        for (let j = 0; j < cnt && nw < wk.length; j++) { const w = wk[nw], ph = T * w.sp + w.ph, r = w.r * (0.6 + 0.4 * Math.sin(ph * 0.5)), px = cx + Math.cos(w.dir + j * 2.1) * r * Math.sin(ph), pz = cz + Math.sin(w.dir + j * 2.1) * r * Math.sin(ph);
+          const fa = Math.atan2(Math.sin(w.dir + j * 2.1) * Math.cos(ph) * Math.sign(1), Math.cos(w.dir + j * 2.1) * Math.cos(ph));
+          V3.set(px, gy + 0.2, pz); Q.setFromAxisAngle(YA, -fa); S3.setScalar(WK_S * clamp01((0.7 + k) * 8)); M4.compose(V3, Q, S3); life.workers.setMatrixAt(nw, M4); nw++; } }
+      life.workers.count = nw; life.workers.instanceMatrix.needsUpdate = true;
+      // birds
+      const camBirds = true;
+      for (const b of life.birds) { b.a += b.w * dt / b.R * 0.1; b.g.visible = camBirds; const ang = b.a; b.g.position.set(b.cx + Math.cos(ang) * b.R, b.y + Math.sin(T * 0.4 + b.bob) * 0.015, b.cz + Math.sin(ang) * b.R);
+        b.g.rotation.y = -(ang + Math.sign(b.w) * Math.PI / 2); b.g.rotation.z = Math.sign(b.w) * -0.25; flap(b, T, 7); }
+      const F = flockState; F.next -= dt;
+      if (!F.on && F.next <= 0) { F.on = true; F.t = 0; const a = rnd(0, 6.28); F.x0 = -Math.cos(a) * 0.95; F.z0 = -Math.sin(a) * 0.95; F.dx = Math.cos(a); F.dz = Math.sin(a); F.y = rnd(0.28, 0.42); }
+      if (F.on) { F.t += dt; const d = F.t * 0.11 + 0, fa = Math.atan2(F.dz, F.dx);
+        life.flock.forEach((b, i) => { const row = i === 0 ? 0 : Math.ceil(i / 2), side = i === 0 ? 0 : (i % 2 ? 1 : -1), px = F.x0 + F.dx * d - F.dx * row * 0.07 - F.dz * side * row * 0.05, pz = F.z0 + F.dz * d - F.dz * row * 0.07 + F.dx * side * row * 0.05;
+          b.g.visible = true; b.g.position.set(px, F.y + Math.sin(T * 1.3 + i) * 0.006, pz); b.g.rotation.set(0, -fa, 0); flap(b, T, 5.5); });
+        if (d > 1.95) { F.on = false; F.next = rnd(35, 80); for (const b of life.flock) b.g.visible = false; } }
+    };
+  } catch (e) { console.error('life', e); }
+  // compass: the rose turns so north always points the right way on screen
+  const roseEl = $('rose'), cf = new THREE.Vector3();
+  const updCompass = () => { cf.subVectors(controls.target, camera.position); const ry = rig.rotation.y, nx = -Math.sin(ry), nz = -Math.cos(ry), l = Math.hypot(cf.x, cf.z) || 1, fx = cf.x / l, fz = cf.z / l;
+    roseEl.setAttribute('transform', 'rotate(' + (Math.atan2(nx * -fz + nz * fx, nx * fx + nz * fz) * 180 / Math.PI).toFixed(1) + ')'); };
+  const footEl = $('foot'), compassEl = $('compass'), placeCompass = () => { compassEl.style.bottom = (footEl.offsetHeight + 28) + 'px'; };
+  placeCompass(); addEventListener('resize', placeCompass); if (window.ResizeObserver) new ResizeObserver(placeCompass).observe(footEl);
   let last = performance.now();
   renderer.setAnimationLoop(() => {
     const now = performance.now(), dt = Math.min((now - last) / 1000, 0.1); last = now;
@@ -881,6 +1029,7 @@ return mount;})();
     if (inXR) { const s = renderer.xr.getSession(); for (const src of s.inputSources) { const a = src.gamepad && src.gamepad.axes; if (a && a.length >= 4 && Math.abs(a[2]) > 0.15) rig.rotation.y += a[2] * dt * 1.2; } }
     else controls.update();
     uCl.value = now / 1000; for (const c of clouds) c.visible = cloudsCb.checked;
+    if (life.update) life.update(now, dt); updCompass();
     updateLabels();
     renderer.render(scene, camera);
   });
